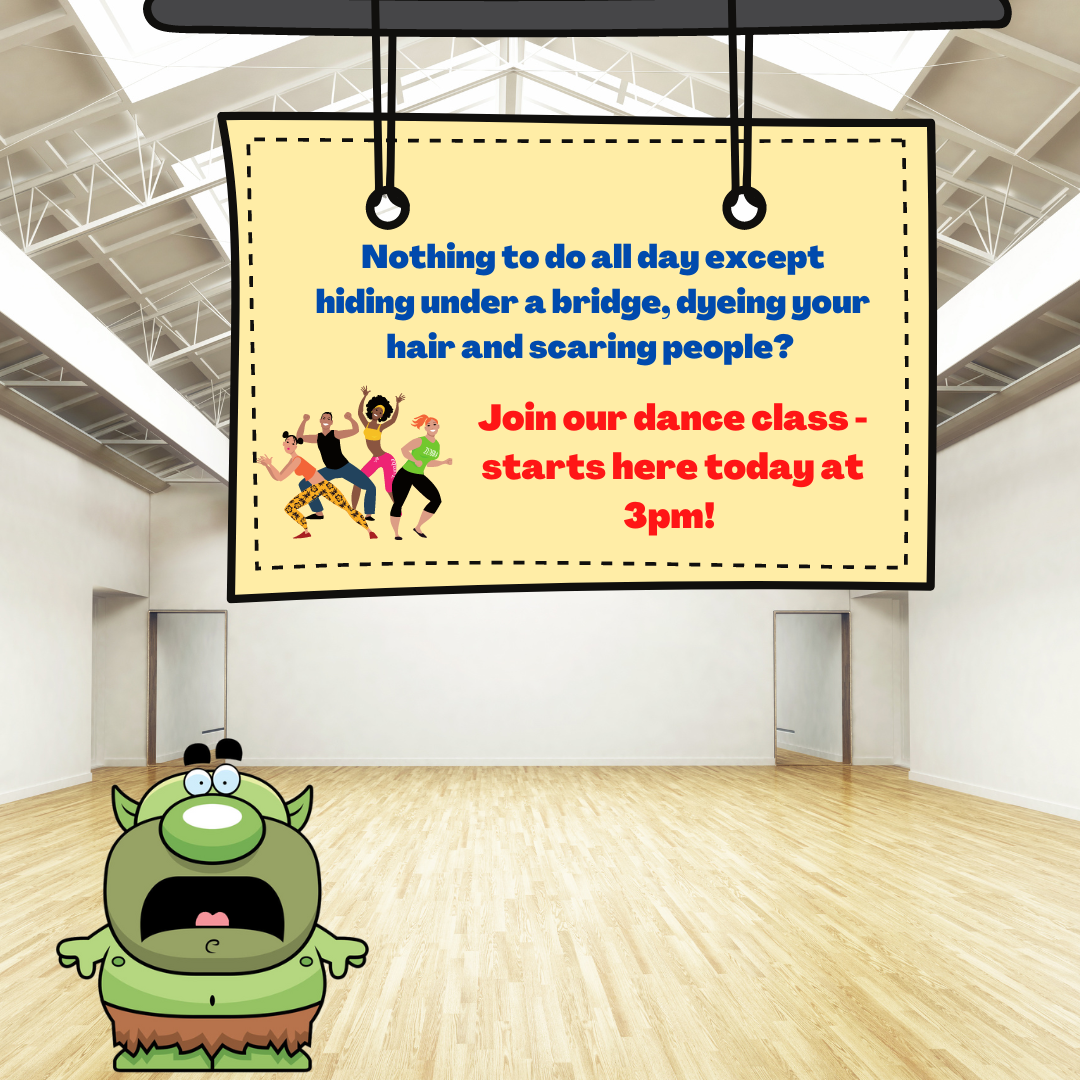
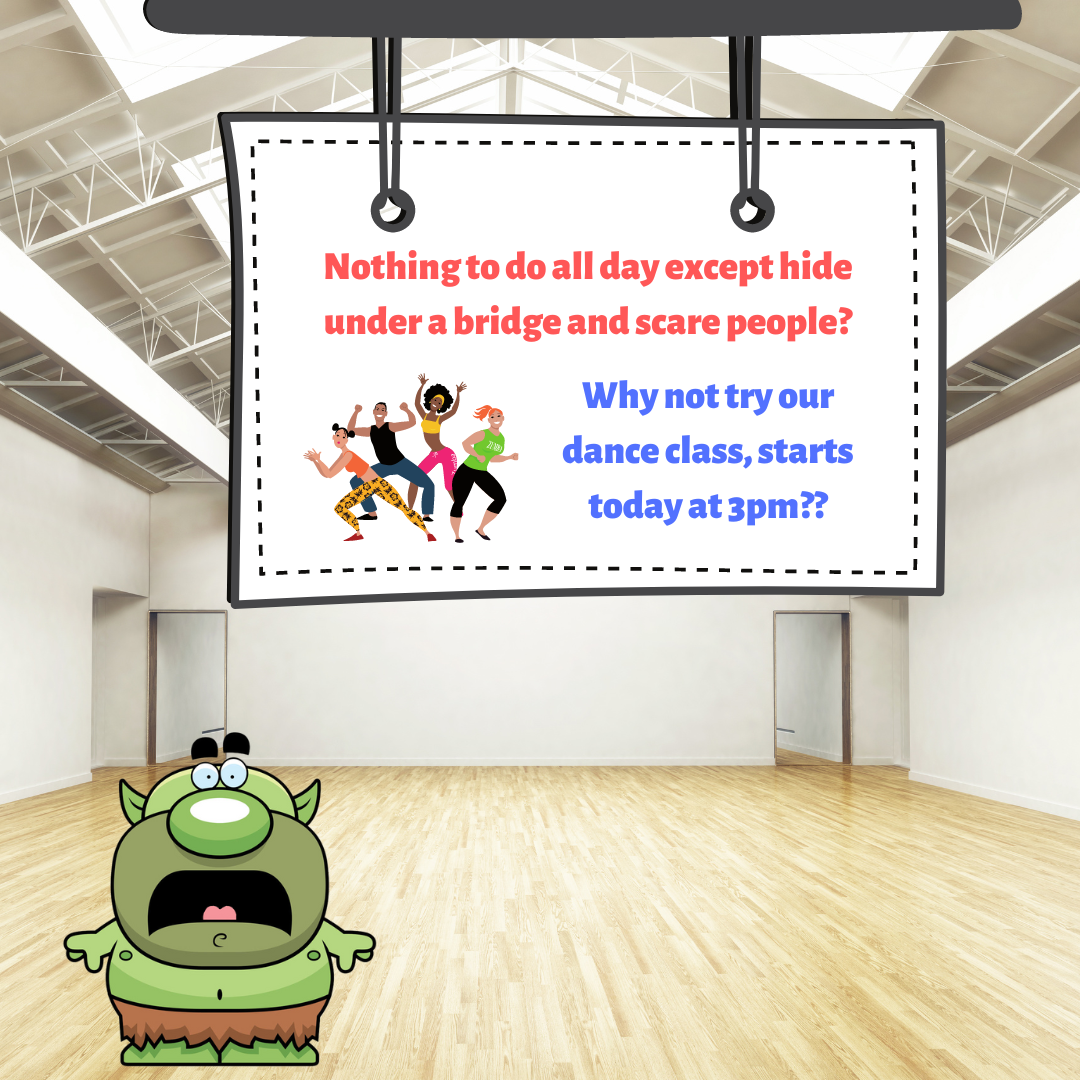
wording changes

diff --git a/Session 4/styles/style1.css b/Session 4/styles/style1.css
@@ -1,4 +1,4 @@
-@import url("https://fonts.googleapis.com/css2?family=Courgette&family=Montserrat:wght@400;500;600&family=Patua+One&family=Paytone+One&family=Poppins:wght@300;500;700&display=swap");
+@import url("https://fonts.googleapis.com/css2?family=Poppins:ital,wght@0,400;0,500;0,600;1,600&family=Shadows+Into+Light&display=swap");
 
 * {
   margin: 0px;
@@ -23,12 +23,12 @@ body {
 }
 
 h1 {
-  font-family: "Patua One", sans-serif;
+  font-family: "Shadows Into Light", sans-serif;
   padding-top: 40px;
   margin: 40px 0 40px 0;
-  color: #ff4a4a;
+  color: #0b6b34;
   text-shadow: 1px 1px #fff;
-  font-size: 40px;
+  font-size: 50px;
 }
 
 img {

diff --git a/Session 4/stay.html b/Session 4/stay.html
@@ -24,9 +24,9 @@
 
         <section>
           <p>
-            You are a very fortunate troll, having access to a macbook, lots of
-            different colours of hair dye and a surprisingly fast internet
-            connection (so no idea why you're so angry!)<br />
+            You are a very fortunate troll, having access to a macbook and
+            surprisingly fast internet connection (so no idea why you're so
+            angry!)<br />
             A link pops up for a Bath Spa Uni Web Dev Course with Andy
             Gray!!!<br />
             It's a chance of a lifetime opportunity!!!

diff --git a/Session 4/strictly.html b/Session 4/strictly.html
@@ -26,11 +26,11 @@
       <section>
         <p>
           You make it to the finals of Strictly with your partner Arnie and
-          realise that he isn't as tall as he looks in the movies! Unfortunately, you don't
+          notice that he isn't as tall as he looks in the movies! Unfortunately, you don't
           win.
        </p>
         <p>
-          Never mind ...
+          Never mind ... The End
        </p>
       </section>
 

diff --git a/Session 4/developer.html b/Session 4/developer.html
@@ -28,7 +28,7 @@
             You totally smashed the Web Dev Bootcamp and are now a Senior
             Developer with Google and buy a Lambourghini Countach!!<br />
           </p>
-          <h2>Well done!!!</h2>
+          <h2>Well done!!! ... The End</h2>
         </section>
 
         <footer>
